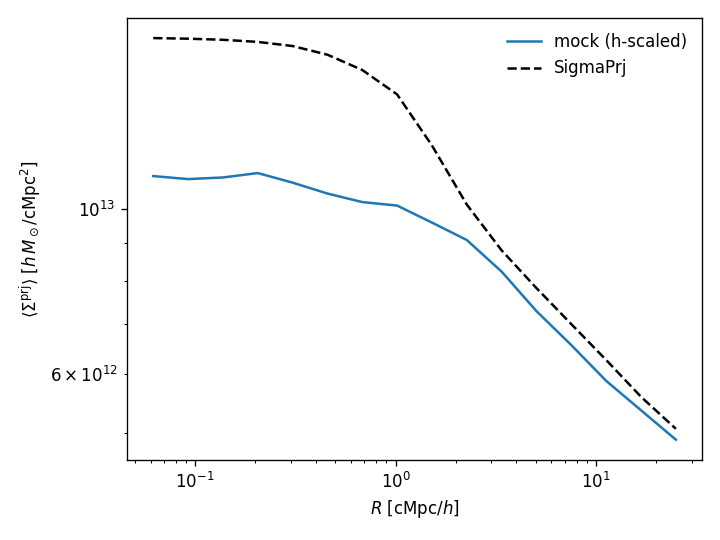
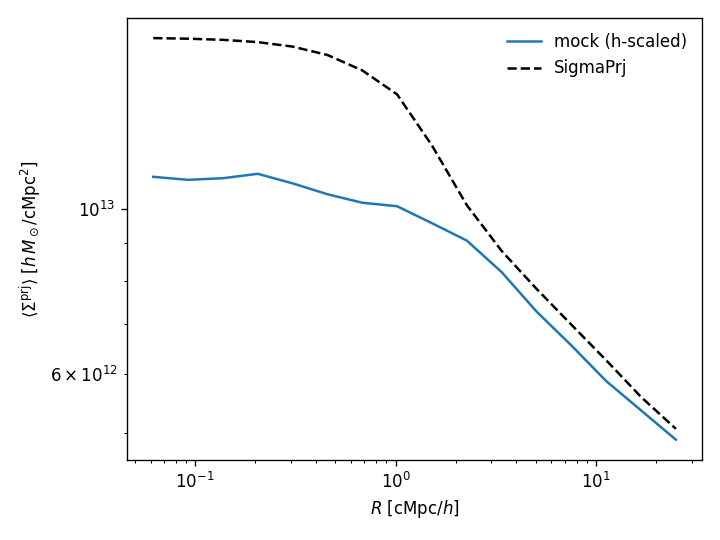
Sharpen SigmaPrj numerics: theta-z coupled exclusion edges, GL ds kernel
Addresses the exclusion-discontinuity and resolution findings of the
2026-08-29 review (review/08282026/sigma_prj_excess_equations.md):

- theta_edges(zob, lob): the exclusion boundary is a curve in the
  (theta, z) plane -- theta and z are coupled through the chord -- so
  the cell edges are now aligned with every z node's exact crossing
  angle theta_ex(z_k). No kernel cell straddles the indicator for any
  quadrature node; downstream shapes are dynamic.
- DeltaSigma smooth term: the aperture-mean 2*pi*s*SigmaBar_mis(<R|s)
  curves on the r_s scale near s ~ R; the per-cell edge trapezoid was
  -5.5% at R=8 (test resolution). Replaced with per-cell 4-node
  Gauss-Legendre; ds now matches the direct SigmaBar(<R) - Sigma(R)
  cross-check to +0.2% (new test).
- Defaults n_theta 64->96, n_z_side 40->160, justified by a measured
  per-axis convergence scan (in the constructor docstring): mass
  converged at 40; theta 96 puts Sigma within 0.3%; the exclusion step
  in the z direction converges ~first order and needs n_z_side=160 for
  DeltaSigma near R_excl (+9% at 40, +0.14% at 160 vs the n=640
  reference). z cost is weights-only, so the high default is cheap.
- Docstrings: rnd is the selected-halo background column (mass cut,
  untruncated wings, aperture-dependent), not the cosmological mean;
  R_excl's neighbour-mass independence named as the Costanzi effective
  prescription (Garcia et al. 2021 for the physical kernel).
[…]

diff --git a/src/clenspy/lensing/projection.py b/src/clenspy/lensing/projection.py
@@ -91,7 +91,27 @@ Halo exclusion comes in three named semantics (plus ``"none"``):
   total as ``"counter"``, but the hole is booked in the background.
 
 with :math:`R_{\rm excl} = R_\lambda(\lambda^{\rm ob})(1 + z^{\rm ob})`
-comoving.
+comoving. Two named approximations in the exclusion kernel, both the
+Costanzi effective prescription: :math:`R_{\rm excl}` is the richness
+aperture, **independent of the neighbour's mass** (physical hard-sphere
+exclusion would use :math:`R_\Delta(M_{\rm cls}) + R_\Delta(M)`, García
+et al. 2021), and it is evaluated at the single :math:`(\lambda^{\rm
+ob}, z^{\rm ob})` point rather than averaged over
+:math:`p(M_{\rm cls} \mid \lambda^{\rm ob})` (excess-equations note
+eq. 24). The exclusion boundary itself is a curve in the
+:math:`(\theta, z)` plane; `theta_edges` aligns the cell edges with
+every z node's exact crossing angle, so no kernel cell straddles the
+indicator (see its docstring).
+
+NOTE: **the rnd channel is the selected-halo background column, not the
+cosmological mean-matter column.** It is the mean column of the modelled
+halo population — mass-restricted to ``min_mass``..``log10_M_max`` and
+dressed with *untruncated* NFW wings unless ``r_trunc`` is set — so it
+depends on the transverse aperture and carries only the halo-budget
+share of :math:`\bar\rho_m\times 2\,{\rm depth}` (≈ 0.2–0.4 for the
+default mass cut). That is exactly the mock's background (mock matter
+*is* those halos); it is **not** :math:`\bar\rho_m` — a full-matter
+closure is a separate, not-yet-implemented mode.
 
 NOTE: **units.** Physical :math:`M_\odot`, comoving Mpc, h-free — the
 `clenspy.selection.bsel.SelBiasEngine` convention. ``hmf`` is
@@ -175,10 +195,18 @@ class SigmaPrj:
     mis_table : NfwMiscenteringTable, optional
         Default: the packaged table.
     n_theta, n_z_side, n_M : int
-        Quadrature sizes. theta is trapezoid on a log grid (the kernel is
-        smooth but spans decades); z is Gauss-Legendre in log |dchi| on
-        each side of the cluster (nodes cluster at the exclusion ring
-        where the indicator switches); mass is Gauss-Legendre in ln M.
+        Quadrature sizes. theta: log cells integrated exactly by the
+        kernel (plus edges aligned to every z node's exclusion crossing,
+        see `theta_edges`); z: Gauss-Legendre in log |dchi| per side,
+        split at R_excl; mass: Gauss-Legendre in ln M. Defaults measured
+        on the Buzzard configuration (2026-08-29 convergence scan,
+        doubling each axis at lob=20, zob=0.5): n_M=40 converged to
+        <0.1%; n_theta=96 puts Sigma within 0.3% (1.4% at R=25 for 64);
+        n_z_side=160 is set by DeltaSigma near R_excl — the exclusion
+        step in the z direction converges only ~first order (R=2 cMpc:
+        +9% at 40, +0.14% at 160 against the n=640 reference) while
+        Sigma is already <0.2% at 40. z cost is weights-only (linear,
+        no kernel evaluations), so the high default is nearly free.
     theta_perp_range : tuple of float
         Transverse comoving span (Mpc) of the theta grid at z_ob;
         theta = span / chi(z_ob). Lower edge 1e-3: the 2 pi sin(theta)
@@ -228,8 +256,8 @@ class SigmaPrj:
         bias: Callable,
         concentration: Callable | None = None,
         mis_table=None,
-        n_theta: int = 64,
-        n_z_side: int = 40,
+        n_theta: int = 96,
+        n_z_side: int = 160,
         n_M: int = 40,
         theta_perp_range: tuple[float, float] = (1e-3, 90.0),
         min_mass: float | None = None,
@@ -293,21 +321,55 @@ class SigmaPrj:
         return np.interp(np.asarray(chi_val, dtype=float),
                          self._chi_ref, self._zs_ref)
 
-    def theta_grid(self, zob: float):
-        r"""Cell centres of the log-spaced :math:`\theta` grid, and the
+    def theta_grid(self, zob: float, lob: float | None = None):
+        r"""Cell centres of the :math:`\theta` grid, and the
         spherical-measure correction :math:`\sin\bar\theta/\bar\theta` per
         cell. The measure itself lives in the **exact per-cell kernel
         masses** of `kernel` — a pointwise :math:`2\pi\sin\theta\,d\theta`
         rule cannot resolve the :math:`\Sigma_{\rm mis}` ring of width
         :math:`\sim r_s` at :math:`\theta\chi_o \approx R`."""
-        edges = self.theta_edges(zob)
+        edges = self.theta_edges(zob, lob)
         centres = np.sqrt(edges[:-1] * edges[1:])
         return centres, np.sin(centres) / centres
 
-    def theta_edges(self, zob: float):
-        r"""Log-spaced :math:`\theta` cell edges [rad], n_theta + 1."""
+    def theta_edges(self, zob: float, lob: float | None = None):
+        r""":math:`\theta` cell edges [rad] — log-spaced, n_theta + 1
+        without exclusion.
+
+        With ``lob`` given and exclusion active, the exact per-node
+        crossing angles of the chord ball,
+        :math:`\cos\theta_{\rm ex}(z_k) = [\chi_k^2 + \chi_o^2 -
+        R_{\rm excl}^2]/[2\chi_k\chi_o]`, are inserted as extra edges.
+        The exclusion boundary is a *curve* in the :math:`(\theta, z)`
+        plane — :math:`\theta` and :math:`z` are coupled through the
+        chord — so classifying whole log cells by their centre against a
+        single radius misclassifies every boundary-straddling cell.
+        Aligning the edges with every z node's own crossing makes the
+        indicator exact at cell resolution for **each** node: no kernel
+        cell ever straddles the boundary of any quadrature node. The
+        cell count grows by up to one per in-ball z node; all downstream
+        shapes are dynamic."""
+        key = ("tedges", round(zob, 8),
+               None if lob is None else round(lob, 8), self.exclusion)
+        if key in self._cache:
+            return self._cache[key]
         chi_o = float(self.chi(zob))
-        return np.geomspace(*self.theta_perp_range, self.n_theta + 1) / chi_o
+        edges = np.geomspace(*self.theta_perp_range, self.n_theta + 1) / chi_o
+        if lob is not None and self.exclusion != "none":
+            r_ex = self.r_excl(lob, zob)
+            zs, _ = self._z_grid(zob, split_at=r_ex)
+            chi_z = self.chi(zs)
+            in_ball = np.abs(chi_z - chi_o) < r_ex
+            cos_t = ((chi_z[in_ball] ** 2 + chi_o**2 - r_ex**2)
+                     / (2.0 * chi_z[in_ball] * chi_o))
+            th_ex = np.arccos(np.clip(cos_t, -1.0, 1.0))
+            th_ex = th_ex[(th_ex > edges[0]) & (th_ex < edges[-1])]
+            edges = np.unique(np.concatenate([edges, th_ex]))
+            # merge near-degenerate edges (GL nodes cluster near the pole)
+            keep = np.concatenate([[True], np.diff(edges) / edges[1:] > 1e-9])
+            edges = edges[keep]
+        self._cache[key] = edges
+        return edges
 
     def _z_grid(self, zob: float, split_at: float | None = None):
         r"""Gauss-Legendre in :math:`\ln|\Delta\chi|` on each side of the
@@ -406,7 +468,7 @@ class SigmaPrj:
 
         With ``floor_one_plus_bxi`` the floored bracket is integrated as a
         whole and the excess over the rnd channel is reported as cl."""
-        thetas, _ = self.theta_grid(zob)
+        thetas, _ = self.theta_grid(zob, lob)
         zs, wzs = self._z_grid(
             zob,
             split_at=(self.r_excl(lob, zob)
@@ -512,10 +574,10 @@ class SigmaPrj:
         ob})` — the other thin-window approximation."""
         R = np.atleast_1d(np.asarray(R, dtype=float))
         chi_o = float(self.chi(zob))
-        s_edges = self.theta_edges(zob) * chi_o
-        _, sin_corr = self.theta_grid(zob)
+        s_edges = self.theta_edges(zob, lob) * chi_o
+        _, sin_corr = self.theta_grid(zob, lob)
         rs, sigma0 = self._profiles(zob)
-        n_t, n_m = self.n_theta, rs.size
+        n_t, n_m = s_edges.size - 1, rs.size
 
         K = np.empty((n_t, n_m, R.size))
         for im in range(n_m):
@@ -529,13 +591,22 @@ class SigmaPrj:
             if which == "sigma":
                 K[:, im, :] = ring
             else:
-                # smooth term: 2 pi s SigmaBar_mis(<R | s), trapezoid on
-                # the cell edges (x_mis = s/r_s is the scalar per call)
-                g = np.empty((n_t + 1, R.size))
-                for ie in range(n_t + 1):
-                    g[ie] = (2.0 * np.pi * s_edges[ie] * sigma0[im]
-                             * self._mhat(R / rs[im], s_edges[ie] / rs[im]))
-                smooth = 0.5 * (g[1:] + g[:-1]) * np.diff(s_edges)[:, None]
+                # smooth term: 2 pi s SigmaBar_mis(<R | s). Smooth in s,
+                # but curved on the r_s scale near s ~ R (the halo cusp
+                # crossing the aperture edge), which an edge trapezoid
+                # under-resolves at default cell widths (-5% in
+                # DeltaSigma at R = 8, test resolution). Per-cell
+                # Gauss-Legendre nodes resolve it at fixed cell count.
+                x_gl, w_gl = gl_nodes(0.0, 1.0, 4)
+                width = np.diff(s_edges)
+                smooth = np.zeros((n_t, R.size))
+                for j in range(x_gl.size):
+                    s_j = s_edges[:-1] + width * x_gl[j]
+                    for it in range(n_t):
+                        smooth[it] += (w_gl[j] * width[it]
+                                       * 2.0 * np.pi * s_j[it] * sigma0[im]
+                                       * self._mhat(R / rs[im],
+                                                    s_j[it] / rs[im]))
                 K[:, im, :] = smooth - ring
         if self.r_trunc is not None:
             if which != "sigma":
@@ -577,7 +648,7 @@ class SigmaPrj:
             - 2.0 * R[None, :, None] * s_edges[:, None, None]
             * np.cos(phi), 0.0,
         ))
-        tail = np.zeros((self.n_theta, rs.size, R.size))
+        tail = np.zeros((s_edges.size - 1, rs.size, R.size))
         for im in range(rs.size):
             fhat = NfwProfile._fNfw(u / rs[im])
             # sigma of the tail, azimuth-averaged: (1/pi) int_{phi_t}^pi
@@ -666,8 +737,12 @@ if __name__ == "__main__":
             bias_model.bias(m.ravel(), zz.ravel())
         ).reshape(m.shape)
 
+    # default exclusion="counter": the K_exc pair weight -- the one mode
+    # whose cl channel is the mode-invariant random-subtracted excess
+    # (under "ball" the exclusion hole is booked in rnd instead, and the
+    # default channel="cl" of deltasigma_prj would silently omit it)
     prj = SigmaPrj(cosmology=cosmo, xi_nl=xi_nl, hmf=hmf, bias=bias,
-                   los_window="hard", los_depth=71.4, exclusion="ball")
+                   los_window="hard", los_depth=71.4)
     lob, zob = 20.0, 0.5
     bsel = SigmoidBias(lob=lob, zob=zob,
                        theta_lambda=prj.r_excl(lob, zob) / prj.chi(zob),

diff --git a/tests/test_projection.py b/tests/test_projection.py
@@ -171,7 +171,9 @@ def test_kernel_cell_mass_matches_brute_force(model):
     the thing the trick replaces."""
     prj = _prj(model)
     chi_o = float(prj.chi(ZOB))
-    s_edges = prj.theta_edges(ZOB) * chi_o
+    # the edges the kernel actually uses: aligned with the per-z exclusion
+    # crossings when exclusion is active
+    s_edges = prj.theta_edges(ZOB, LOB) * chi_o
     rs, sigma0 = prj._profiles(ZOB)
     im = rs.size // 2
     R0 = 5.0  # comoving Mpc
@@ -335,3 +337,28 @@ def test_counter_term_exclusion(model):
     # merely-zeroed slab cl at small R
     assert cl_c[0] < prj_slab.cl[0]
     assert cl_c[0] < prj_b.cl[0]
+    # cl is the global excess: sum minus the uniform background, exactly
+    assert np.allclose(cl_c, tot_c - rnd_c, rtol=1e-12)
+    # and the counter cl equals slab cl minus the ball's background hole
+    hole = prj_slab.rnd - prj_b.rnd
+    assert np.allclose(cl_c, prj_slab.cl - hole, rtol=1e-10)
+
+
+def test_deltasigma_matches_direct_excess(model):
+    r"""Review check: the ``ds`` kernel must agree with the direct
+    operation :math:`\bar\Sigma(<R) - \Sigma(R)` applied to the model's
+    own :math:`\Sigma_{\rm prj}(R)` — computed here by fine-grid
+    quadrature purely as a *cross-check* (the production path never
+    reconstructs :math:`\Delta\Sigma` from :math:`\Sigma`)."""
+    prj = _prj(model, exclusion="counter")
+    b = _bsel(prj)
+    R0 = 8.0
+    ds = prj.deltasigma_prj(np.array([R0]), LOB, ZOB, b, channel="cl")[0]
+    # fine grid from well inside the aperture floor to R0
+    s = np.geomspace(2.0e-3, R0, 160)
+    sig = prj.sigma_prj(s, LOB, ZOB, b, channel="cl")
+    sig_R0 = sig[-1]
+    sigbar = 2.0 / R0**2 * np.trapezoid(s * sig, s)
+    # the (0, s_min) sliver: Sigma_prj is flat at the centre
+    sigbar += sig[0] * (s[0] / R0) ** 2
+    assert ds == pytest.approx(sigbar - sig_R0, rel=0.02)

diff --git a/examples/getting_started.py b/examples/getting_started.py
@@ -360,9 +360,12 @@ def bias_real(mass, z):
 
 xi_real = XiNL(_PkGrid(cosmo=cosmo, nonlinear=True), clip=False)  # signed BAO trough
 
+# default exclusion="counter" (the K_exc pair weight): the one mode whose
+# cl channel is the mode-invariant random-subtracted excess. Under "ball"
+# the exclusion hole would be booked in rnd -- and the default
+# channel="cl" of deltasigma_prj below would silently omit it.
 prj = SigmaPrj(cosmology=cosmo, xi_nl=xi_real, hmf=hmf_real, bias=bias_real,
-               los_window="hard", los_depth=71.4,  # the Costanzi-mock window
-               exclusion="ball")
+               los_window="hard", los_depth=71.4)  # the Costanzi-mock window
 R_prj = np.array([0.5, 2.0, 8.0, 25.0])  # comoving Mpc
 # b_sel from the toy engine above: its SHAPE is right, its amplitude is
 # not (see docs/selection_bias.md); the mutually calibrated pipeline is

diff --git a/docs/projection_lensing.md b/docs/projection_lensing.md
@@ -190,12 +190,12 @@ unscored. See {doc}`validation`.
 
 ```
 Sigma_prj(R | lob=20, zob=0.5) [Msun/Mpc^2 comoving]:
-  R=  0.5  rnd=3.566e+12  cl=4.130e+13  sum=4.486e+13
-  R=  2.0  rnd=3.576e+12  cl=2.413e+13  sum=2.770e+13
-  R=  8.0  rnd=3.575e+12  cl=2.980e+12  sum=6.555e+12
-  R= 25.0  rnd=3.538e+12  cl=8.777e+11  sum=4.415e+12
-DeltaSigma_prj: [9.427e+11 8.597e+12 4.784e+12 1.146e+12]
-  rnd/cl at R=8: +0.0044 (boundary term only)
+  R=  0.5  rnd=3.582e+12  cl=4.091e+13  sum=4.449e+13
+  R=  2.0  rnd=3.579e+12  cl=2.398e+13  sum=2.756e+13
+  R=  8.0  rnd=3.575e+12  cl=2.959e+12  sum=6.534e+12
+  R= 25.0  rnd=3.538e+12  cl=8.586e+11  sum=4.396e+12
+DeltaSigma_prj: [9.972e+11 8.488e+12 4.718e+12 1.169e+12]
+  rnd/cl at R=8: +0.0001 (boundary term only)
 ```
 
 See also: {doc}`api/index` for the full `clenspy.lensing` reference,
